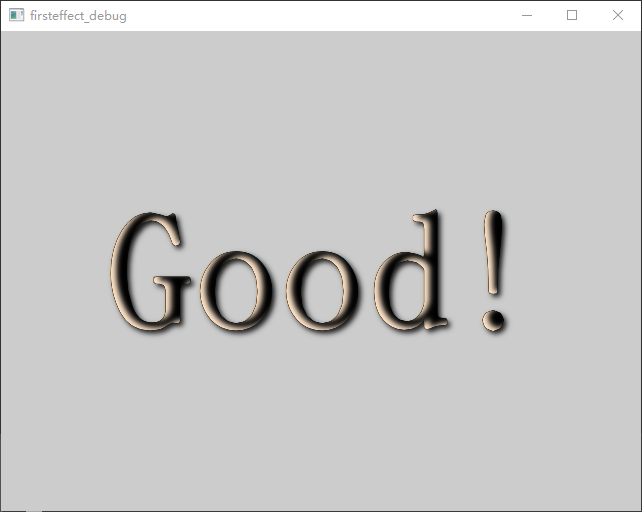
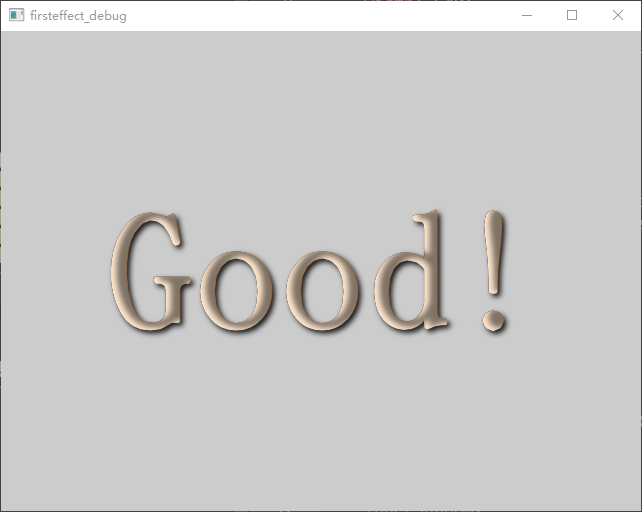
+

diff --git a/chapter06/firsteffect/myqml/firsteffect/main.qml b/chapter06/firsteffect/myqml/firsteffect/main.qml
@@ -1,4 +1,4 @@
-/*main.qml*/
+/*firsteffect/main.qml*/
 import QtQuick 2.9
 import QtGraphicalEffects 1.12
 
@@ -15,6 +15,7 @@ Rectangle {
         font.pointSize: 128
         font.bold: true
         anchors.centerIn: parent
+        color: Qt.darker( idInnerShadow.color ) ;
     }
 
     DropShadow{
@@ -28,6 +29,7 @@ Rectangle {
     }
 
     InnerShadow{
+        id : idInnerShadow
         anchors.fill: idText
         radius: 8.0
         samples: 16
@@ -39,5 +41,6 @@ Rectangle {
 
 }/*~Rectangle*/
 
+/*endl_input_of_latex_for_clanguage_lick*/
 /*DropShadow QML Type*/
 /*InnerShadow QML Type*/

diff --git a/TheBook/chapter06/firsteffect.tex b/TheBook/chapter06/firsteffect.tex
@@ -10,13 +10,13 @@
 
 由于Qt Quick的所有渲染最终都
 依靠现代3D可编程渲染管线实现。
-这样用户就可以
+这样读者就可以
 在原有管线的基础上任意添加
 新的渲染管线。
 
-这样，读者可以不受限的将
+毫无疑问，读者可以不受限的将
 所有现代渲染技术应用到
-程序之中。
+应用程序之中。
 
 对于常见图形特效，Qt Quick
 提供了“Qt Graphical Effects”
@@ -42,6 +42,76 @@ Qt Graphical Effects提供的
 \end{figure}
 %end图片
 
+
+要使用Qt Graphical Effects
+只需要在Qml文件开头增加一行：\\
+import QtGraphicalEffects 1.12
+
+\filesourcenumbernameone\ \ref{f000051}展示了
+使用“DropShadow”和“InnerShadow”模拟光照，
+虚拟立体文字。
+
+值得注意的是，
+图形特效不应当是其源（source）的子类。
+否则，上一次图形特效渲染出的结果会加入下一次运算。
+这会造成渲染出现闭环。
+在绝大多数情况下这种闭环会导致错误的渲染结果。
+
+%\begin{spacing}{1.0}
+\refstepcounter{filesourcenumber}\label{f000051}    %增加源代码编号
+\FloatBarrier                                  %强制完成浮动体布局
+\begin{thebookfilesourceone}[escapeinside={(*@}{@*)},
+caption=GoodLuck,
+title=\filesourcenumbernameone \thefilesourcenumber
+]
+/*firsteffect/main.qml*/
+import QtQuick 2.9
+import QtGraphicalEffects 1.12
+
+Rectangle {
+
+    id : idRoot
+    width: 640;
+    height: 480;
+    color: Qt.rgba(0.8,0.8,0.8,1);
+
+    RenderText{
+        id : idText
+        text: "Good!"
+        font.pointSize: 128
+        font.bold: true
+        anchors.centerIn: parent
+        color: Qt.darker( idInnerShadow.color ) ;
+    }
+
+    DropShadow{
+        anchors.fill: idText
+        horizontalOffset: 3
+        verticalOffset: 3
+        radius: 8.0
+        samples: 17
+        color: Qt.rgba(0.1,0.1,0.1,1)
+        source: idText
+    }
+
+    InnerShadow{
+        id : idInnerShadow
+        anchors.fill: idText
+        radius: 8.0
+        samples: 16
+        horizontalOffset: 5.5
+        verticalOffset: -2.8
+        color: Qt.rgba(1,0.9,0.8,1)
+        source: idText
+    }
+
+}/*~Rectangle*/(*@\marginpar[\hfill\setlength\fboxsep{2pt}\fbox{\footnotesize{\kaishu\parbox{1em}{\setlength{\baselineskip}{2pt}\filesourcenumbernameone}}\footnotesize{\thefilesourcenumber}}]{\setlength\fboxsep{2pt}\fbox{\footnotesize{\kaishu\parbox{1em}{\setlength{\baselineskip}{2pt}\filesourcenumbernameone}}\footnotesize{\thefilesourcenumber}}}@*)\end{thebookfilesourceone}          %抄录环境
+\addtocounter{lstlisting}{-1}   %sub lstlisting counter ...
+%\end{spacing}
+
+
+Qt Graphical Effects共提供了25种图形特效，
+如\tablename\ \ref{tb000000}所示：
 
 \input{chapter06/firsteffect/table/table.tex}
 

diff --git a/TheBook/sourceIndex.tex b/TheBook/sourceIndex.tex
@@ -102,6 +102,8 @@
 
 \noindent\filesourcenumbernameone\ \ref{f000044},\ \pageref{f000044}%f000044
 
+\noindent\filesourcenumbernameone\ \ref{f000051},\ \pageref{f000051}%f000051
+
 \noindent\filesourcenumbernameone\ \ref{f000052},\ \pageref{f000052}%f000052
 
 \noindent\filesourcenumbernameone\ \ref{f000053},\ \pageref{f000053}%f000053
